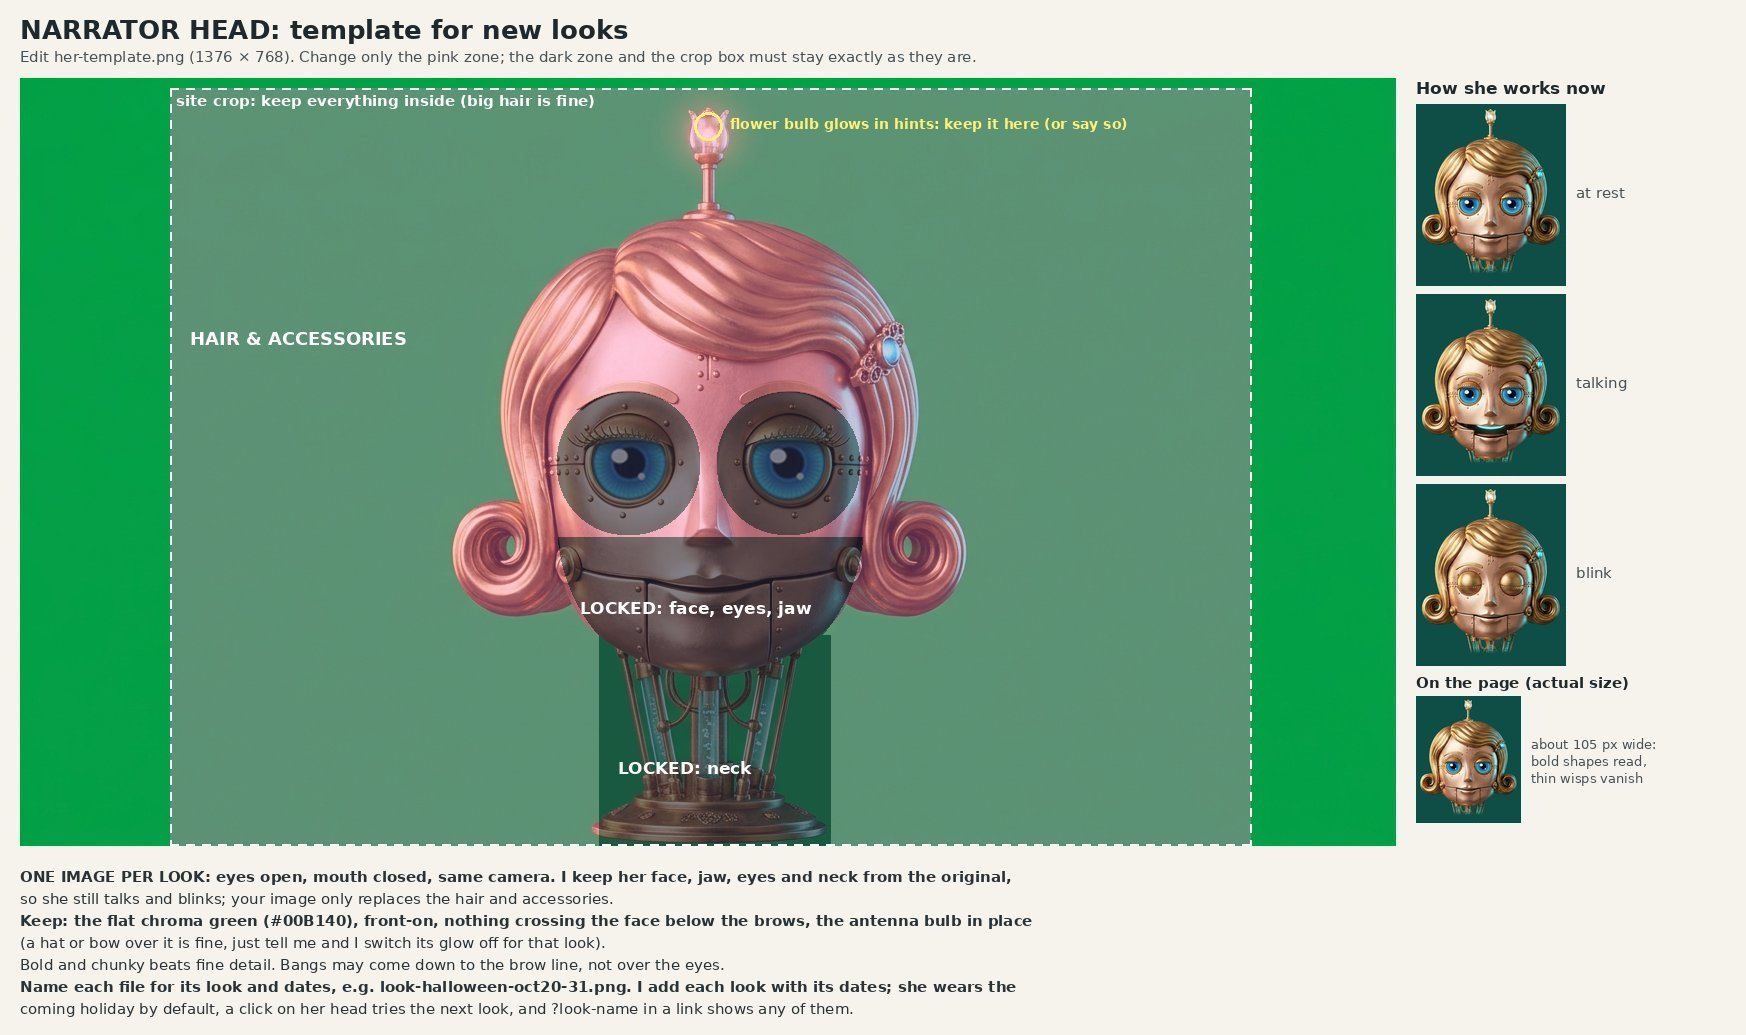
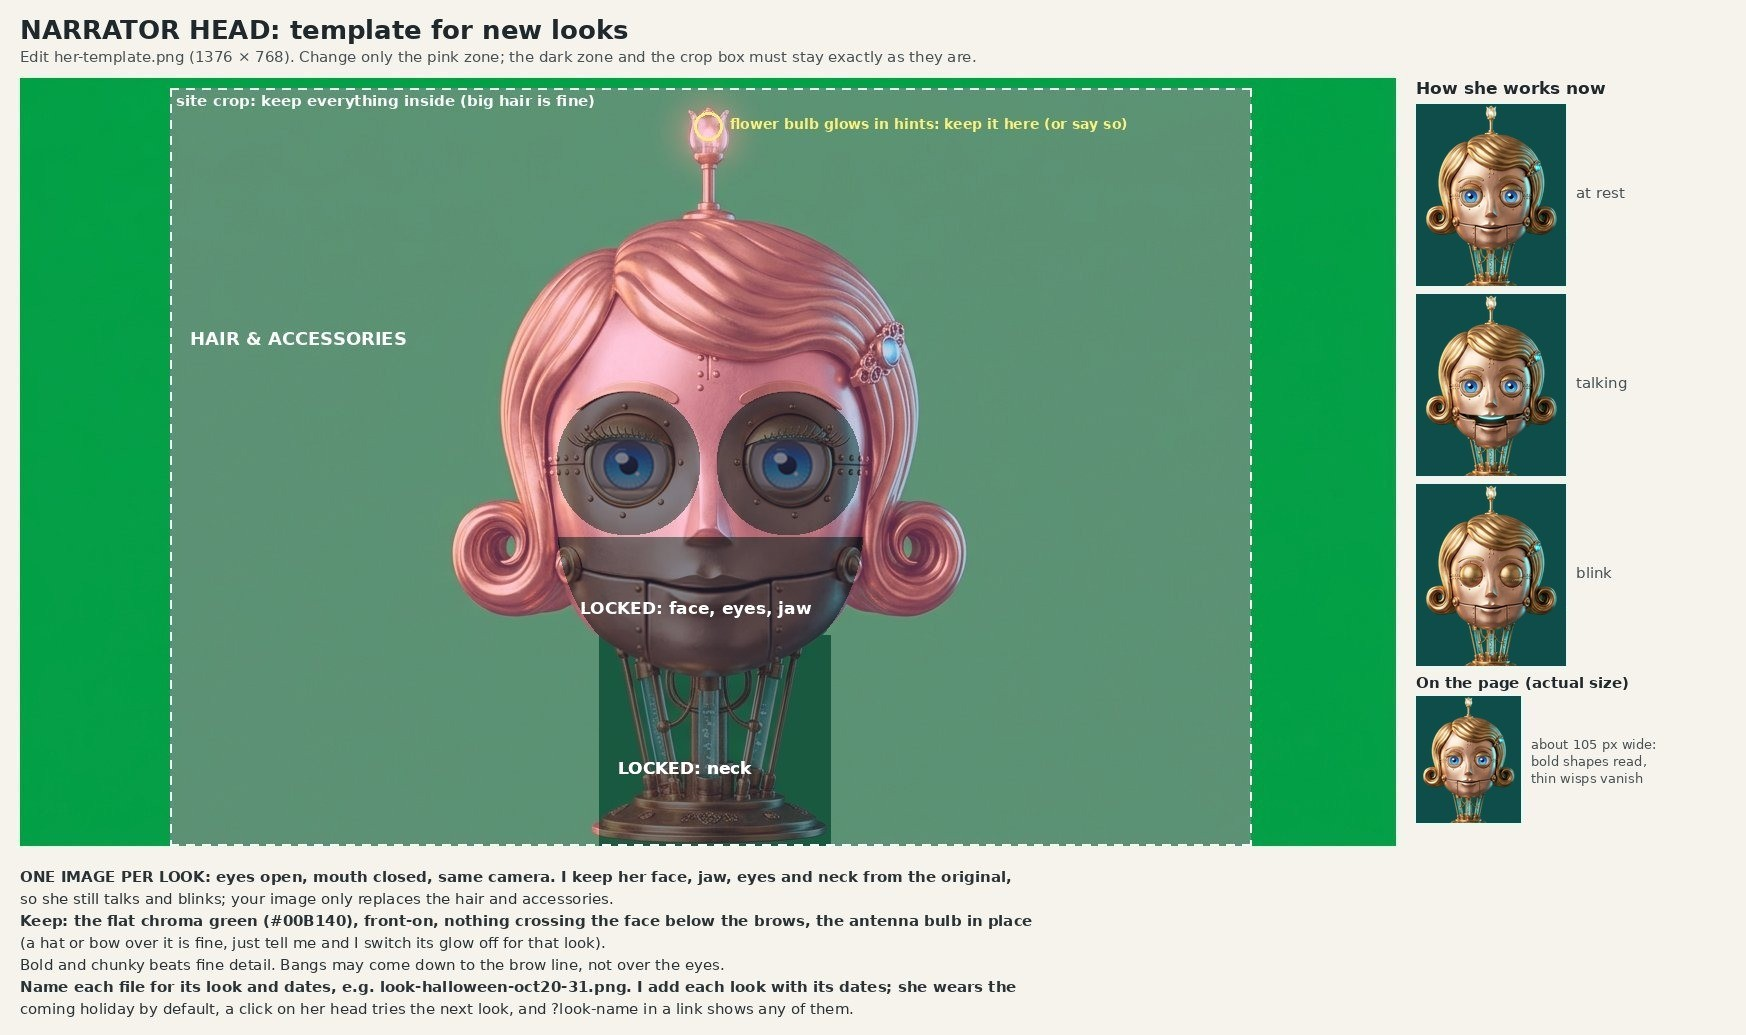
GlazyArray kit: new eyes, a full reference, a Story cover and an animation catalog (#227)
- her-template.png and her contact sheet now show her new eyes and chin
- kit/her-reference.jpg: all of her at her desk, for image tools
- story.jpg: the RIVETING TONE cover set tall (1080 x 1920) for Stories
- ANIMATE.md: living-photo loop prompts for every photo in her feature

Claude-Session: https://claude.ai/code/session_0195hiXiVZY5DpQ2CCYEr2vL

diff --git a/assets/narrator/ANIMATE.md b/assets/narrator/ANIMATE.md
@@ -1,0 +1,141 @@
+# RIVETING TONE, animated: a prompt catalog for living photos
+
+Like a portrait in a storybook wizard's castle: each photo from her feature becomes a short, silent loop where
+almost nothing moves. A blink, a glow, a lamp flicker, a lean. Each still stays the first frame, so the page looks
+the same before the clip plays.
+
+Each shot below has its file, how long it runs, what moves and what must stay still, and a prompt ready to copy.
+
+## How to make one
+
+1. **Start from the still.** Give your image-to-video tool the photo from
+   `field/data/photos/2026-10-08-glazyarray-will-see-you-now/` (named below) as the first frame.
+2. **Ask for a seamless loop.** If the tool has a last-frame or loop setting, set the last frame to the same still.
+   If it doesn't, Claude can cross-fade the end back into the start.
+3. **Keep it short:** 4 to 6 seconds, the photo's own size and shape, 24 or 30 fps, no sound.
+4. **Bring it back** as an `.mp4` with the same name as the still (`desk.mp4` beside `desk.jpg`), in the Studio or
+   to Claude. The Note already plays an `.mp4` photo as a muted loop, the cover too, with the still as its poster.
+
+## Rules for every loop
+
+- **Living photo, not a scene.** Tiny, slow, gentle motion. Most of the frame stays perfectly still.
+- **The camera is locked:** no zoom, pan, orbit or shake. Background parallax is at most a whisper.
+- **Her face stays on-model:** the same brass face, the same calm blue eyes with warm whites, and the lashes.
+  - **Mouth:** closed, with the same soft smile. Her mouth only moves in her own videos, never here.
+  - **Blinks:** at most one per loop, quick and natural, with both lids together.
+- **Her hands keep their joints:** articulated brass fingers bend only at the joints, never melt or add a finger.
+- **Glows breathe, they don't flash:** the cyan chest tubes and the flower-bud bulb pulse softly, about once every
+  2 to 3 seconds.
+- **Never:** text, logos, new people, new objects, a change of hat or hair, or anything appearing or disappearing.
+- **The loop closes:** the last frame matches the first.
+
+**Paste this at the start of every prompt:**
+
+> A living photograph: a seamless, gently looping animation of this exact image. Locked-off camera, no zoom, no
+> pan. Keep the robot GlazyArray exactly as she is: her brass face, her calm blue eyes, her closed soft smile,
+> her hair and her hands. Subtle, slow, magical motion only, like an enchanted portrait. The last frame matches the
+> first.
+
+---
+
+## 1. The cover
+
+- **Still:** `cover.jpg` (16:9). **Loop:** 6 s. **Goes:** the cover at the top of the feature.
+- **Moves:** her flower-bud bulb breathes. The chest tubes shimmer. One slow blink. Her raised hand settles a
+  millimetre, as if mid-thought.
+- **Stays:** her head, her hair and the backdrop.
+
+> [The opening above.] Her flower-bud bulb glows a little brighter and dims again, slowly. The cyan glass tubes at
+> her neck and chest shimmer softly, like light moving through water. Halfway through she blinks once, gently. Her
+> raised brass hand eases down a hair's breadth and back, as if she is about to make a point. The teal backdrop's
+> mottled texture drifts very slightly, like studio haze.
+
+## 2. At her desk, mid-story
+
+- **Still:** `desk.jpg`. **Loop:** 5 s. **Goes:** under the headline.
+- **Moves:** the raised hand gives one small conversational beat. The desk lamp's glow warms and cools a touch. The
+  bokeh behind her twinkles.
+- **Stays:** her other hand flat on the desk, and her face.
+
+> [The opening above.] She is mid-sentence at her desk at night. Her raised brass hand makes one small, gentle beat
+> in the air, as if underlining a word, then returns to where it began. The warm desk lamp glows a touch brighter
+> and settles. A few out-of-focus lights in the workshop behind her twinkle softly. Dust motes drift slowly through
+> the lamp light. Her hand on the desk stays still.
+
+## 3. Behind the scenes: between takes
+
+- **Still:** `bts.jpg`. **Loop:** 5 s. **Goes:** "The voice came first".
+- **Moves:** her fingers tap the desk, lightly and in rhythm, as she does before an episode. A softbox flickers
+  once.
+- **Stays:** the camera on its tripod, and the green screen.
+
+> [The opening above.] Between takes on a green-screen set, she waits patiently at her desk. The fingers of one
+> brass hand tap the desk lightly, one after another, in an easy rhythm, then rest. One studio softbox flickers
+> very slightly, once. Her chest tubes glow and settle. She blinks once, calmly, toward the lens.
+
+## 4. The eyes, take four
+
+- **Still:** `portrait.jpg`. **Loop:** 4 s. **Goes:** "Then came the awkward phase".
+- **Moves:** one slow, deliberate blink, the eyes' catchlights glinting after it. Her head tilts a degree and
+  returns.
+- **Stays:** everything else. This one is about the eyes.
+
+> [The opening above.] A close portrait. She blinks once, slowly and deliberately, her brass lids closing and
+> opening together. As her eyes open, the catchlights in them glint. Her head tilts a single degree to one side and
+> back, like a polite little nod. Her antenna's bulb glows softly. Nothing else moves.
+
+## 5. The Hat Issue: the bike helmet
+
+- **Still:** `helmet.jpg`. **Loop:** 5 s. **Goes:** "The wardrobe".
+- **Moves:** the little brass headlamp glows brighter and settles, its beam catching a few drifting dust motes. Her
+  chin lifts a touch, proud.
+- **Stays:** the helmet's shape and colours.
+
+> [The opening above.] She wears her glossy bike helmet. The small round brass headlamp on its front glows a little
+> brighter, a soft beam catching a few floating dust motes, then eases back. She lifts her chin a fraction, a touch
+> proud, and returns. One gentle blink. The grey studio backdrop stays still.
+
+## 6. The look book
+
+- **Still:** `lookbook.jpg`. **Loop:** 6 s. **Goes:** the wardrobe spread.
+- **Moves:** a soft spotlight glint travels slowly along the row of display heads, from left to right. The Santa
+  hat's pom-pom sways once. The tiara's stars sparkle as the light passes.
+- **Stays:** the heads themselves: no blinking here, they're on display.
+
+> [The opening above, but for a row of five brass display heads instead of her.] A warm spotlight glint travels
+> slowly along the row of brass heads, from left to right, catching each hat in turn: the beanie's knit, the witch
+> hat's buckle, the trail cap's brim, the tiara's stars (which sparkle) and the Santa hat (whose pom-pom sways once,
+> gently). The velvet backdrop stays dark and still. The glint returns to where it began.
+
+## 7. The library: a good idea
+
+- **Still:** `library.jpg`. **Loop:** 6 s. **Goes:** the Q&A ("What's the glowing ball?").
+- **Moves:** the orb in her hands breathes with light, lighting her face from below. Her mortarboard's tassel
+  sways. The brass reading lamps glow and settle.
+- **Stays:** the bookshelves, and her hands' grip on the orb.
+
+> [The opening above.] In a quiet library, she holds a small glowing orb of cyan light in both brass hands. The orb
+> slowly brightens and softens, like a held breath, its light rising and falling on her face. The gold tassel on her
+> mortarboard sways gently once. The brass reading lamps on the shelves glow warmly. A single mote of light drifts
+> up from the orb and fades. She looks at it fondly and blinks once.
+
+## 8. The Story cover (optional)
+
+- **Still:** `story.jpg` (9:16, 1080 × 1920, with the masthead set). **Loop:** 5 s. **Goes:** Instagram Stories.
+- **Moves:** her bulb glows, she blinks, and the tubes shimmer. The type must not move at all.
+- **Easier:** animate shot 1 instead, and Claude sets the masthead and cover lines over the moving clip in the
+  Story's frame. The type then stays perfectly sharp.
+
+> [The opening above.] This is a magazine cover: every word of text stays perfectly still and sharp. Only she
+> moves: her flower-bud bulb glows softly brighter and back, her chest tubes shimmer, and she blinks once.
+
+---
+
+## Quick fixes when a loop goes wrong
+
+- **Her face drifts or changes:** add "her face is frozen, only her eyelids move", or shorten the clip to 4 s.
+- **The mouth opens:** add "her lips stay sealed in the same soft smile for the whole clip".
+- **Too much motion:** add "90% of the frame is perfectly still", and remove one moving element.
+- **The camera creeps:** add "tripod-locked, static shot, no camera movement of any kind".
+- **The loop jumps:** set the last frame to the still, or send it to Claude to cross-fade the seam.
+- **Extra fingers or melting hands:** keep the hands still in that shot, and move a glow instead.

diff --git a/assets/narrator/PHOTOSHOOT.md b/assets/narrator/PHOTOSHOOT.md
@@ -7,9 +7,9 @@ Claude) under the names below.
 ## Before every shot
 
 - **Give your image tool a reference of her.** Use one of these:
+  - all of her, with her new eyes: `assets/narrator/kit/her-reference.jpg` (the best one)
+  - her head on green: `assets/narrator/kit/her-template.png`
   - her contact sheet: `assets/narrator/kit/her-contact-sheet.jpg`
-  - a rest-pose still: `assets/narrator/rest.jpg`
-  - her head: `assets/narrator/head-base.webp`
 
   Ask it to keep her exactly on-model.
 - **Paste the description below** at the start of every prompt (it's in each one already).
@@ -125,8 +125,8 @@ Claude) under the names below.
 
 - **`rt-publicist.jpg`** (4:5): her publicist and HR are never shown as people, so keep them as objects. A brass
   clipboard and a mug on a side table beside her desk, softly lit, with nothing written on either.
-- **`rt-story.jpg`** (9:16): a vertical version of the cover for Instagram Stories. Same prompt as shot 1, framed
-  tall, with space at the top and bottom.
+- **`rt-story.jpg`** (9:16): done. `story.jpg` in the Note's photos is the cover, set tall with the masthead.
+  To make it move, see `ANIMATE.md`.
 
 ---
 
